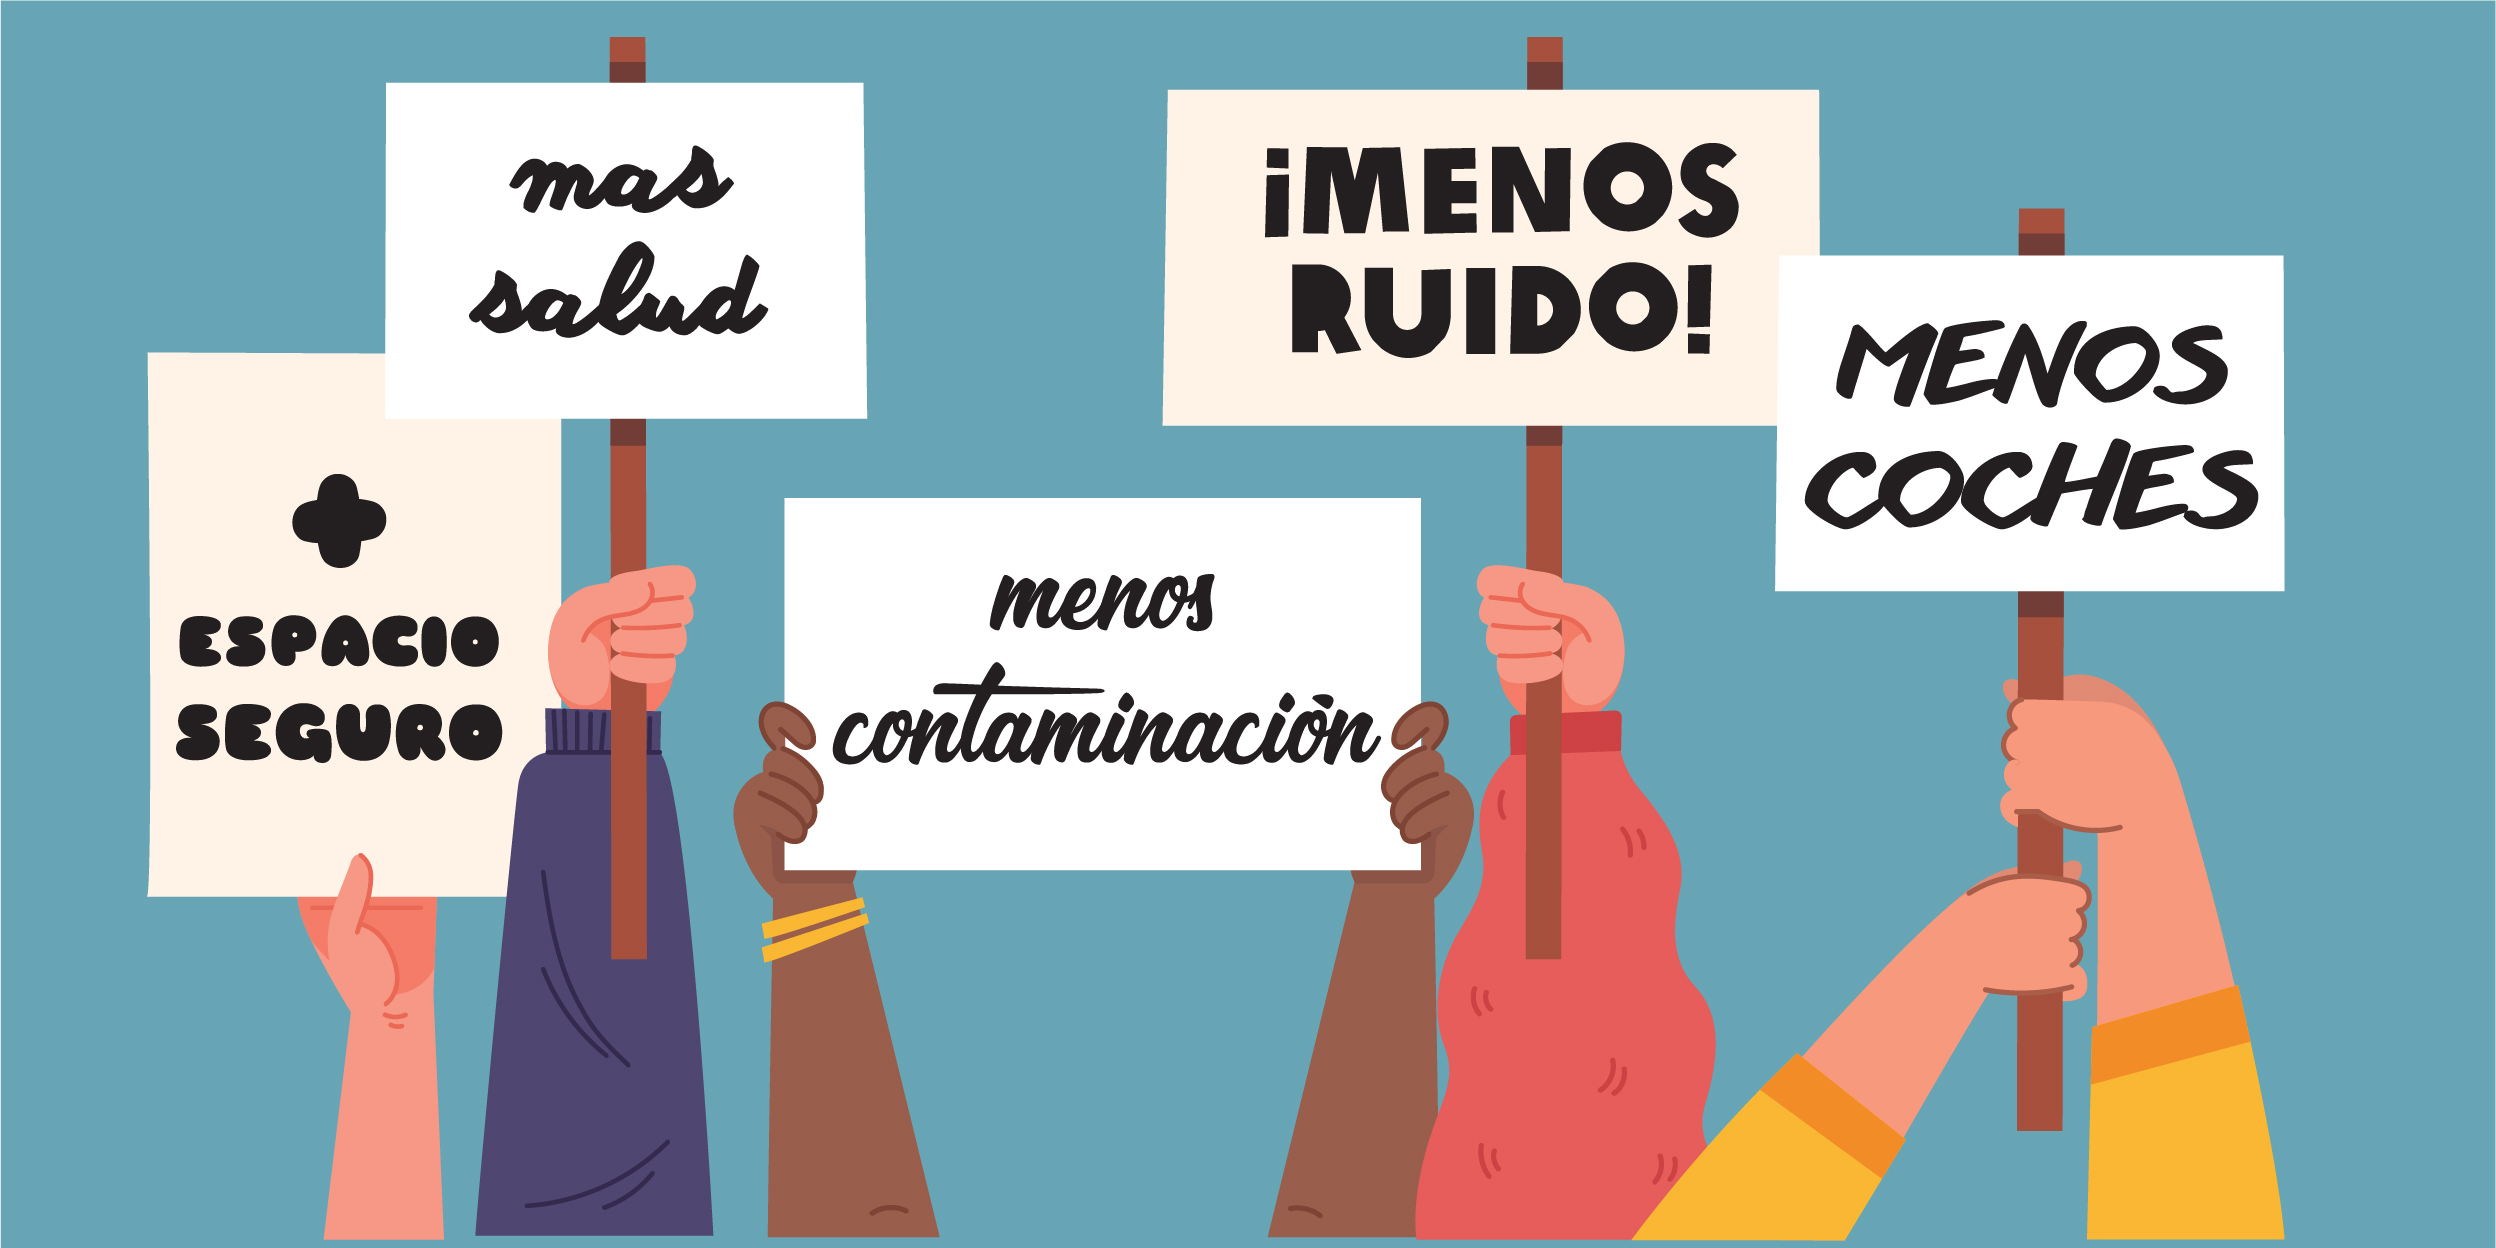
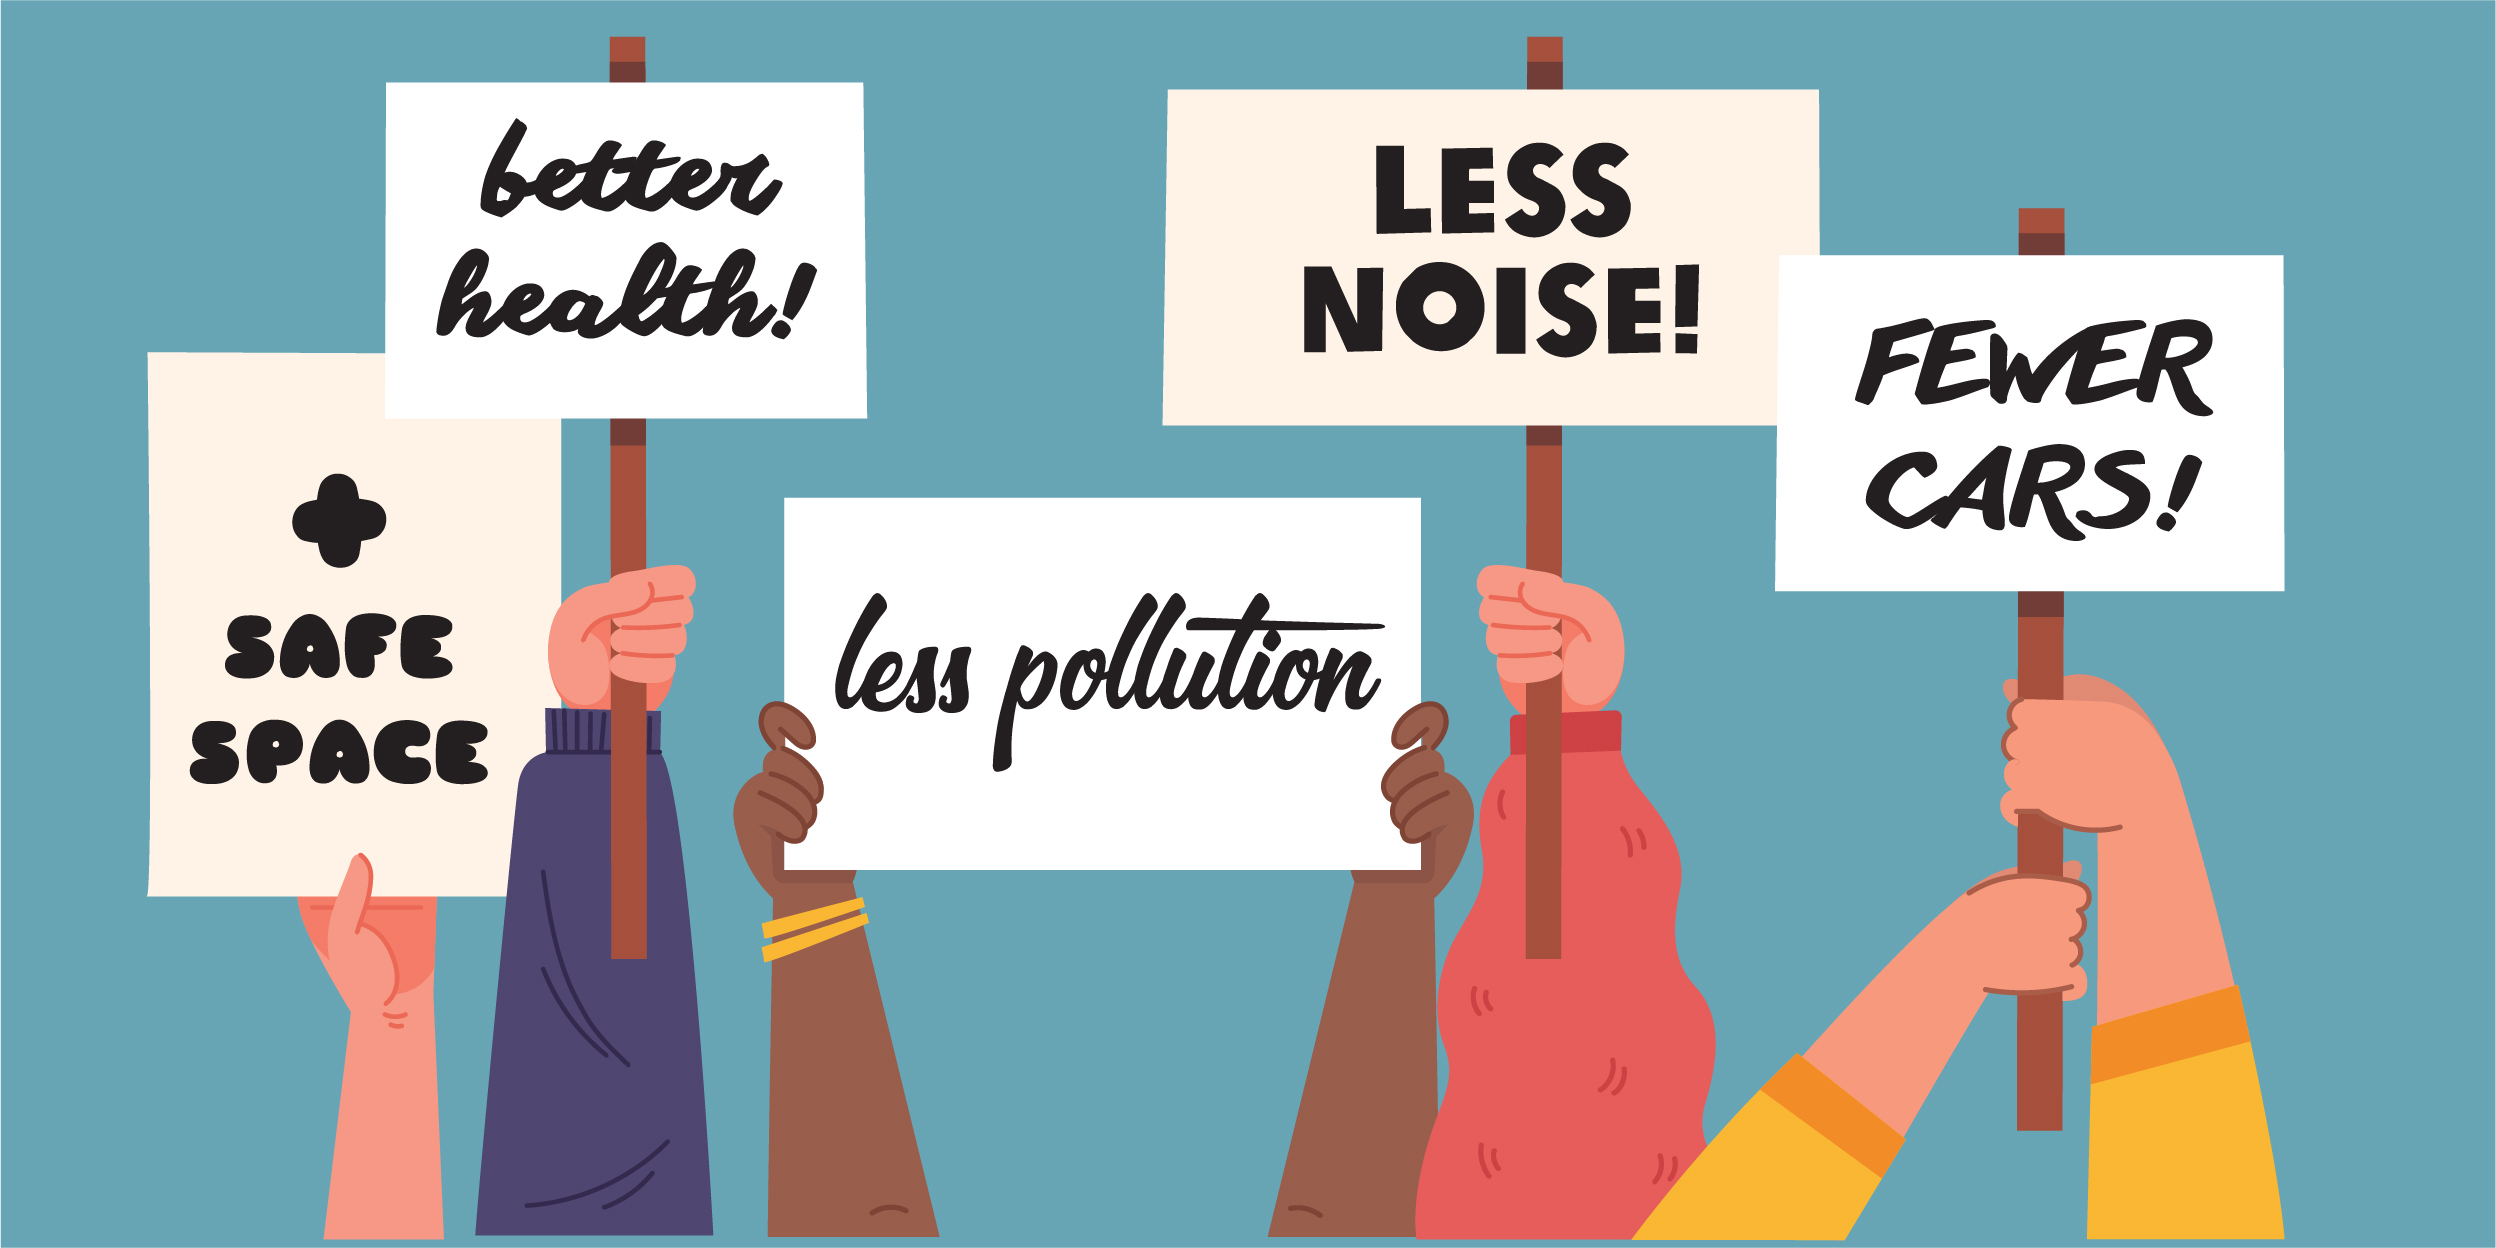
Finished translation

diff --git a/index.html b/index.html
@@ -2,19 +2,19 @@
 <html>
 <head>
   <title>For safe and peaceful school environments! Join the #SchoolRebellion!</title>
-  <meta name="description" content="Diferentes Asociaciones de Famílias de Alumnos (AFA) en Cataluña, en colaboración con entidades vecinales, estamos realizando cada 15 días cortes de tráfico los viernes a la salida del colegio para reclamar una mayor pacificación y seguridad de los entornos escolares, menos contaminación y menos ruido.">
+  <meta name="description" content="Parents and Teachers Associations (PTAs) in Catalonia, in collaboration with neighbourhood organizations, are carrying out roadblocks every 2 weeks on Fridays when leaving school to demand greater pacification and safety of school environments, less pollution and less noise.">
   <meta name="viewport" content="width=device-width,initial-scale=1">
   <meta http-equiv="content-type" content="text/html;charset=utf-8" />
-  <meta property="og:title" content="Per uns entorns segurs i pacificats!"/>
-  <meta property="og:description" content="Diferentes Asociaciones de Famílias de Alumnos (AFA) en Cataluña, en colaboración con entidades vecinales, estamos realizando cada 15 días cortes de tráfico los viernes a la salida del colegio para reclamar una mayor pacificación y seguridad de los entornos escolares, menos contaminación y menos ruido. ¡Haz que tu AFA o AMPA se sume!">
-  <meta property="og:url" content="https://www.revueltaescolar.es"/>
+  <meta property="og:title" content="For safe and peaceful school environments! Join the #SchoolRebellion!"/>
+  <meta property="og:description" content="Parents and Teachers Associations (PTAs) in Catalonia, in collaboration with neighbourhood organizations, are carrying out roadblocks every 2 weeks on Fridays when leaving school to demand greater pacification and safety of school environments, less pollution and less noise.">
+  <meta property="og:url" content="https://www.schoolrebellion.com"/>
   <meta property="og:image" content="https://www.revueltaescolar.es/images/sharing.jpg?v=1"/>
-  <meta property="og:site_name" content="revueltaescolar.es"/>
+  <meta property="og:site_name" content="schoolrebellion.com"/>
   <meta property="og:type" content="website"/>
   <meta name="twitter:card" content="summary_large_image" />
-  <meta name="twitter:title" content="Por unos entornos escolares seguros y pacificados! Únete a la #RevueltaEscolar!">
+  <meta name="twitter:title" content="For safe and peaceful school environments! Join the #SchoolRebellion!">
   <meta name="twitter:image" content="https://www.revueltaescolar.es/images/sharing.jpg?v=1">
-  <meta name="twitter:description" content="Diferentes Asociaciones de Famílias de Alumnos (AFA) en Cataluña, en colaboración con entidades vecinales, estamos realizando cada 15 días cortes de tráfico los viernes a la salida del colegio para reclamar una mayor pacificación y seguridad de los entornos escolares, menos contaminación y menos ruido. ¡Haz que tu AFA o AMPA se sume!">
+  <meta name="twitter:description" content="Parents and Teachers Associations (PTAs) in Catalonia, in collaboration with neighbourhood organizations, are carrying out roadblocks every 2 weeks on Fridays when leaving school to demand greater pacification and safety of school environments, less pollution and less noise.">
   <link rel="preconnect" href="https://fonts.gstatic.com">
   <link href="https://fonts.googleapis.com/css2?family=Oswald:wght@400;700&display=swap" rel="stylesheet">
   <link href="https://fonts.googleapis.com/css2?family=Open+Sans:wght@400;600&display=swap" rel="stylesheet">
@@ -30,15 +30,15 @@
       </div>
       <h2>Join the #SchoolRebellion</h2>
       <h1 class="large" style="max-width: 1000px;">FOR SAFE AND PEACEFUL SCHOOL ENVIRONMENTS!</h1>
-      <img src="images/cartells.svg">
+      <img src="images/cartells.svg?v=1">
       <div class="text">
-        <p>Parents and Teachers Associations (PTAs) in Catalonia, in collaboration with neighbourhood organizations, are carrying out roadblocks every 15 days on Fridays when leaving school to demand greater pacification and safety of school environments, less pollution and less noise.</p>
+        <p>Parents and Teachers Associations (PTAs) in Catalonia, in collaboration with neighbourhood organizations, are carrying out roadblocks every 2 weeks on Fridays when leaving school to demand greater pacification and safety of school environments, less pollution and less noise.</p>
         <p>We started in December 2020, with 20 schools and 17 traffic cuts. In a short time, we have already grown to 63 mobilized centres. Next Friday, February 12th at 4:30 p.m., we will carry out 51 simultaneous roadblocks in three different cities: Barcelona, Badalona and Sabadell. We have called it the <b>#SchoolRebellion</b>.</p>
         <p>To give you an idea, these are the roadblocks that will take place at the next protest in Barcelona:</p>
-        <img src="/images/mapa-barcelona.jpg">
+        <img src="/images/mapa-barcelona.jpg?v=1">
         <p>The protest does not stop growing and is spreading to more cities, so it would be great if your PTA also encouraged you to participate!</p>
         <h2>When will the next protests be?</h2>
-        <p>It is important that we all go together to make a greater impact. That is why we have marked the following dates: February 12th, February 26th, March 12th, March 26th, etc. Always on Friday, every 14 days, and at the time of school closure.</p>
+        <p>It is important that we all go together to make a greater impact. That is why we have marked the following dates: February 12th, February 26th, March 12th, March 26th, etc. Always on Friday, every 2 weeks, and at the time of school closure.</p>
         <h2>What should we do to join?</h2>
         <p>First of all, the PTA of your education centre should approve adding to the protest, in a meeting. Once approved, you will have to notify your city government delegation of the date, time and place of the roadblock. This way, it will be the municipal police that will cut traffic off, thus guaranteeing your safety.</p>
         <p>Secondly, you must maximize the announcement of the day, time and place of the protest; both to the families of the school, as well as to the neighbours and neighbourhood organizations. In this link, you can adapt and download the poster that we are using in the rest of the protests.</p>
@@ -58,10 +58,10 @@
           </div>
         </div>
         <p>Finally, it is important that you encourage other schools in your city to join the protest. The easiest thing is to create a WhatsApp or Telegram group that allows you to coordinate and add to all the PTAs in your region that may be interested in participating. Sharing the experience encourages other centres to participate.</p>
-        <p>If you finally take the step, we will also ask you to <a href="mailto:eixample.respira@gmail.com?subject=Notificaci%C3%B3n%20corte%20de%20calle%20del%20%5BNOMBRE%20DE%20VUESTRA%20AFA%20O%20AMPA%5D&body=Hola%2C%0D%0A%0D%0AOs%20escribimos%20para%20notificaros%20que%20haremos%20el%20siguiente%20corte%20de%20calle%2C%20para%20que%20as%C3%AD%20lo%20pod%C3%A1is%20a%C3%B1adir%20a%20la%20comunicaci%C3%B3n%20unitaria%20de%20la%20protesta%3A%0D%0A%0D%0A-%20municipio%3A%20%5BMUNICIPIO%5D%0D%0A-%20fecha%20del%20corte%20de%20calle%3A%20%5BFECHA%5D%0D%0A-%20ubicaci%C3%B3n%3A%20%5BCALLE%20X%20con%20CALL%20Y%5D%0D%0A-%20hora%20del%20corte%3A%20%5BHH%3AMM%5D%0D%0A-%20participan%3A%20%5BAFA%20o%20AMPA%20X%2C%20AFA%20o%20AMPA%20Y%2C...%5D%0D%0A%0D%0AGracias%2C%0D%0A%0D%0AAFA%20o%20AMPA%20X">notify us</a>. In this way we can keep track of how the protest is growing, and we can help you if you have any questions.</p>
+        <p>If you finally take the step, we will also ask you to <a href="mailto:eixample.respira@gmail.com?subject=We%20are%20joining%20the%20%23SchollRebellion!&body=Hi%2C%0D%0A%0D%0AWe%20are%20writing%20to%20notify%20we%20will%20are%20joining%20the%20%23SchollRebellion.%20We%20will%20be%20blocking%3A%0D%0A%0D%0A-%20country%3A%20%5BCOUNTRY%5D%0D%0A-%20city%3A%20%5BCITY%5D%0D%0A-%20date%3A%20%5BDATE%5D%0D%0A-%20street%3A%20%5BSTREET%20X%20with%20CALL%20Y%5D%0D%0A-%20time%3A%20%5BHH%3A%20MM%5D%0D%0A-%20callers%3A%20%5BPTA%20FROM%20SCHOOL%20X%2C%20PTA%20FROM%20SCHOOL%20Y%2C%20...%5D%0D%0A%0D%0AThank%20you!%0D%0A%0D%0A%E2%80%94%20PTA%20FROM%20SCHOOL%20X">notify us</a>. In this way we can keep track of how the protest is growing, and we can help you if you have any questions.</p>
         <div class="menu">
           <div class="button">
-            <a href="mailto:eixample.respira@gmail.com?subject=Notificaci%C3%B3n%20corte%20de%20calle%20del%20%5BNOMBRE%20DE%20VUESTRA%20AFA%20O%20AMPA%5D&body=Hola%2C%0D%0A%0D%0AOs%20escribimos%20para%20notificaros%20que%20haremos%20el%20siguiente%20corte%20de%20calle%2C%20para%20que%20as%C3%AD%20lo%20pod%C3%A1is%20a%C3%B1adir%20a%20la%20comunicaci%C3%B3n%20unitaria%20de%20la%20protesta%3A%0D%0A%0D%0A-%20municipio%3A%20%5BMUNICIPIO%5D%0D%0A-%20fecha%20del%20corte%20de%20calle%3A%20%5BFECHA%5D%0D%0A-%20ubicaci%C3%B3n%3A%20%5BCALLE%20X%20con%20CALL%20Y%5D%0D%0A-%20hora%20del%20corte%3A%20%5BHH%3AMM%5D%0D%0A-%20participan%3A%20%5BAFA%20o%20AMPA%20X%2C%20AFA%20o%20AMPA%20Y%2C...%5D%0D%0A%0D%0AGracias%2C%0D%0A%0D%0AAFA%20o%20AMPA%20X" target="_blank" style="background: #F9B733;">Notify the protest</a>
+            <a href="mailto:eixample.respira@gmail.com?subject=We%20are%20joining%20the%20%23SchollRebellion!&body=Hi%2C%0D%0A%0D%0AWe%20are%20writing%20to%20notify%20we%20will%20are%20joining%20the%20%23SchollRebellion.%20We%20will%20be%20blocking%3A%0D%0A%0D%0A-%20country%3A%20%5BCOUNTRY%5D%0D%0A-%20city%3A%20%5BCITY%5D%0D%0A-%20date%3A%20%5BDATE%5D%0D%0A-%20street%3A%20%5BSTREET%20X%20with%20CALL%20Y%5D%0D%0A-%20time%3A%20%5BHH%3A%20MM%5D%0D%0A-%20callers%3A%20%5BPTA%20FROM%20SCHOOL%20X%2C%20PTA%20FROM%20SCHOOL%20Y%2C%20...%5D%0D%0A%0D%0AThank%20you!%0D%0A%0D%0A%E2%80%94%20PTA%20FROM%20SCHOOL%20X" target="_blank" style="background: #F9B733;">Notify the protest</a>
           </div>
         </div>
         <p>If you have any questions or queries, do not hesitate to contact us at <a href="mailto:eixample.respira@gmail.com">eixample.respira@gmail.com</a> or by phone at <a href="tel:+34620426435">+34 620 426 435</a>.</p>

diff --git a/poster.html b/poster.html
@@ -25,7 +25,7 @@
       <p>This tool is in beta. Fill in the fields and download the image. If you end up with any issue, please reach us at <a href="mailto:eixample.respira@gmail.com">eixample.respira@gmail.com</a>.</p>
       <div class="row">
         <label>Subtitle:</label>
-        <input type="text" data-target=".poster .subtitle" placeholder="we cut Main Street">
+        <input type="text" data-target=".poster .subtitle" placeholder="we will be blocking Main Street">
       </div>
       <div class="row">
         <label>Date:</label>
@@ -77,61 +77,63 @@
         <input type="text" data-target=".poster .location" maxlength="38" placeholder="Main Street between 3rd and 4rth">
       </div>
       <div class="row">
-        <label>Duración:</label>
+        <label>Duration:</label>
         <div class="shopify-select">
           <select data-target=".poster .duration">
-            <option>30 minutos</option>
-            <option>45 minutos</option>
-            <option>1 hora</option>
-            <option>2 horas</option>
+            <option>30 minutes</option>
+            <option>45 minutes</option>
+            <option>1 hour</option>
+            <option>2 hours</option>
+            <option>3 hours</option>
+            <option>4 hours</option>
           </select>
           <svg class="shopify-select-icon" viewBox="0 0 24 24"><path d="M21 5.176l-9.086 9.353L3 5.176.686 7.647 12 19.382 23.314 7.647 21 5.176z"></path></svg>
         </div>
       </div>
       <div class="row">
-        <label>Logotipo entitades convocantes:</label>
+        <label>Calling entities logo:</label>
         <input type="file" accept="image/*" data-target=".summons-1" data-parent=".summons .images"/>
         <input type="file" accept="image/*" data-target=".summons-2" data-parent=".summons .images"/>
         <input type="file" accept="image/*" data-target=".summons-3" data-parent=".summons .images"/>
         <input type="file" accept="image/*" data-target=".summons-4" data-parent=".summons .images"/>
       </div>
       <div class="row">
-        <label>Logotipo entitades que dan apoyo:</label>
+        <label>Support entities logo:</label>
         <input type="file" accept="image/*" data-target=".support-1" data-parent=".support .images"/>
         <input type="file" accept="image/*" data-target=".support-2" data-parent=".support .images"/>
         <input type="file" accept="image/*" data-target=".support-3" data-parent=".support .images"/>
         <input type="file" accept="image/*" data-target=".support-4" data-parent=".support .images"/>
       </div>
       <div class="row">
-        <a class="download" href="" data-action="download">Descargar</a>
+        <a class="download" href="" data-action="download">Download</a>
       </div>
     </div>
     <div class="right">
       <div class="container">
         <div class="poster">
-          <img class="background" src="/images/base.png">
-          <div class="text subtitle">we cut Main Street</div>
+          <img class="background" src="/images/base-en.png">
+          <div class="text subtitle">we will be blocking Main Street</div>
           <div class="text info">
-            <b><span class="date">Viernes 12 de febrero</span></b><br>
+            <b><span class="date">Friday, February 12th</span></b><br>
             <b><span class="time">16.30</span> h</b><br>
             <span class="location">Main Street between 3rd and 4rth</span><br>
-            Duración: <span class="duration">30 minutos</span>
+            Duration: <span class="duration">30 minutes</span>
           </div>
           <div class="logos">
             <div class="section summons">
-              <div class="text">Convoca:</div>
+              <div class="text">Calls:</div>
               <div class="images">
                 <img src="/images/logo-afa.jpg" class="summons-1">
               </div>
             </div>
             <div class="section support">
-              <div class="text" style="display: none;">Con el apoyo de:</div>
+              <div class="text" style="display: none;">With support from::</div>
               <div class="images">
               </div>
             </div>
           </div>
           <div class="url">
-            <div class="text">Más información en: <u>www.revueltaescolar.es</u></div>
+            <div class="text">More information at: <u>www.schoolrebellion.com</u></div>
           </div>
         </div>
       </div>  
